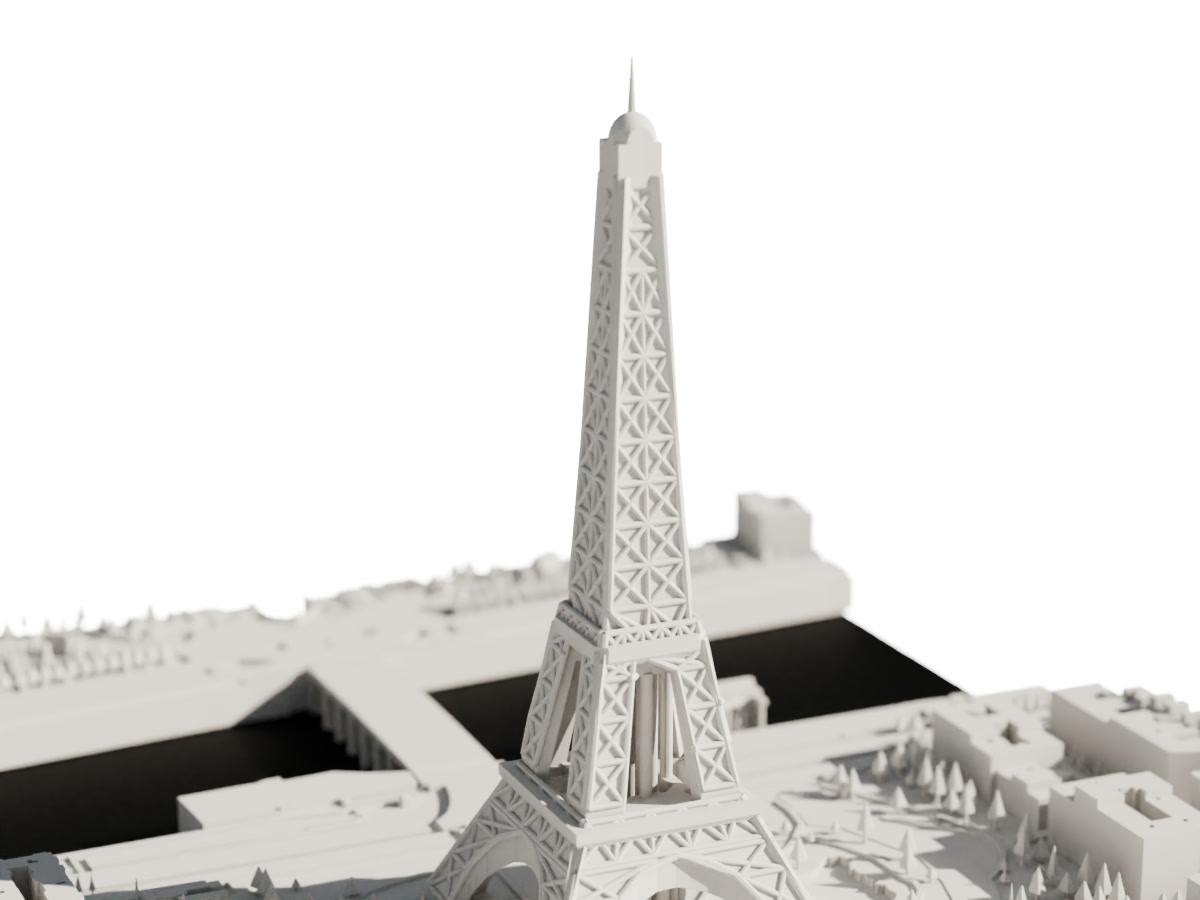
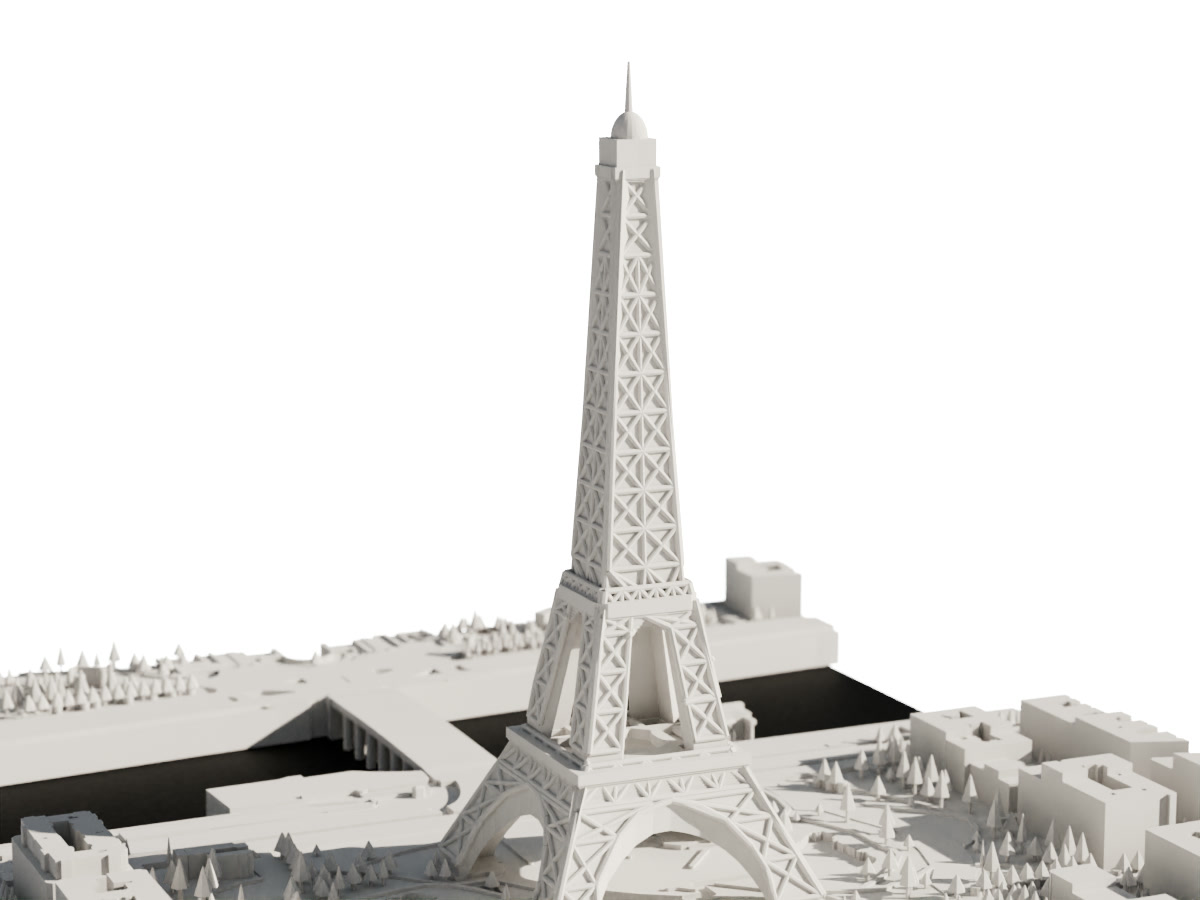
docs(audit,qa,readme): record hero landmark strategy audit, tighten QA checklist, and refresh Paris renders

Changed region(s): [[0.0, 0.0933, 1.0, 1.0]]

diff --git a/docs/hero-landmark-strategy-audit.md b/docs/hero-landmark-strategy-audit.md
@@ -1,0 +1,41 @@
+# Blind Architecture Audit: Hybrid Hero Landmark Strategy
+
+Date: `2026-11-25`.
+Three independent auditors (`rev-argon`, `rev-carbon`, `rev-neon`) evaluated three geometry strategies for `249 PLN` A4 through `50x70 cm` SKUs.
+
+## 1. Three-Model Scoreboard (`3:0` Unanimous Winner: Option C)
+
+| Strategy Option | `rev-argon` (`/40`) | `rev-carbon` (`/40`) | `rev-neon` (`/40`) | Verdict |
+| :--- | :---: | :---: | :---: | :--- |
+| **Option A**: Pure procedural OSM (`zero city hacks`) | `25.5` | `25.5` | `28.0` | **Rejected** |
+| **Option B**: Fully hand-sculpted city SKUs | `17.5` | `16.0` | `18.0` | **Rejected** |
+| **Option C**: Hybrid procedural fabric + geo-anchored hero library | **`38.6`** | **`36.5`** | **`36.0`** | **Winner (`3:0`)** |
+
+## 2. Real-SKU Visual Triggers Inspected
+
+Procedural OSM builds roughly `98%` of urban streets, blocks, bridges, and black-water cutouts cleanly.
+Close-up `10K` MSLA macro inspections exposed clear OSM LoD2 limits on flagship monuments:
+
+- **Paris Tour Eiffel**: Raw OSM LoD2 tags caused a bulbous summit dome cap and arch slab overhangs with vertical pipes.
+- **Warsaw `PKiN`**: Crowd-tagged parts lose crisp spire proportions and stepped Stalinist tier fidelity.
+- **Warsaw `Zlote Tarasy`**: OSM turns the undulating glass wave canopy into simplified egg-shaped bulbs.
+- **Warsaw `Most Poniatowskiego`**: OSM omits the iconic ornamental bridgehead viaduct turrets.
+- **Warsaw `PGE Narodowy`**: Raw OSM cannot capture the tensioned suspended stadium roof accurately.
+
+## 3. Why Option C Scales to 200 Cities and All Formats
+
+- **Luxury unboxing trust (`249 PLN`+)**: Buyers inspect the `1-2` focal monuments up close in open glassless frames.
+- **Zero-rework cross-format reuse**: One metric-anchored landmark re-crops and re-scales across `12x17`, Triptych, Square, and `50x70 cm`.
+- **High engineering leverage**: Roughly `25-150` reusable monument assets cover a `200`-city curated catalog while core solvers stay `100%` generic.
+- **Strict technical contract**:
+  - Anchor every landmark by real-world `(lat, lon, heading_deg, metric scale)` with explicit `replaceOsmIds` footprint suppression.
+  - Require a watertight `2-manifold` solid ground skirt and enforce `SLA_PRINT_LAWS` strut minimums per scale.
+  - Validate every merged tile with `calibration/validate_msla_stl.py` (`VAL-01..08`) after Manifold CSG union.
+
+## 4. Recommended Rule Change (Pending User Sign-Off)
+
+Do not alter `AGENTS.md` Core Rules until the user approves Option C.
+If approved, replace the current `zero city hacks` clause with these two rules:
+
+- Keep `SLA_PRINT_LAWS`, `roadHeightMm`, and pure ASCII in `src/` and `tests/`; keep core procedural builders `100%` city-agnostic.
+- Place bespoke hero monuments only in a geo-anchored landmark library with `replaceOsmIds` suppression, reference-photo QA, and `VAL-01..08` proof.

diff --git a/docs/city-model-and-packshot-qa-checklist.md b/docs/city-model-and-packshot-qa-checklist.md
@@ -22,8 +22,11 @@ Read and execute all four gates before you approve any city STL, tile, or packsh
 
 - Never approve a city STL from validator metrics or browser preview alone.
 - Render and inspect the exported `.stl` files from four close-up angles on every critical zone:
-  - **Hero and unusual landmarks**: Inspect cantilevers, skybridges, curved shells, domes, wheels, lattice towers, and thin supertalls.
+  - **Hero monument likeness**: Compare each flagship monument against real reference photos before you ship a SKU.
+  - **Eye-level arch and cavity clearance**: Inspect through-arch and under-bridge openings at eye level. Reject overhang support pipes blocking open spans.
+  - **Summit-crown macro**: Verify `roof:shape=dome` caps stay inscribed inside parapets with crisp balcony cornices.
   - **Bridges and overpasses**: Verify `0.00 mm` bank abutment seals on both shores, aligned arch piers, and zero floating stubs.
+  - **Outer perimeter sliver check**: Inspect all four `120x170` or `170x120` borders. Reject razor-sliced perimeter walls or orphaned sidewalk annexes.
   - **Waterfronts and streets**: Verify zero floating vessels in `waterCutout`, zero streetlamp mast spikes, and zero collapsed walls.
 - Fix every geometry failure systemically in `src/` with zero city hacks.
 - Rebuild `python3 build_app.py`, pass `npm run test:headless` (`100%`), re-export STLs, and re-run Gates 2 and 3.

diff --git a/README.md b/README.md
@@ -18,7 +18,7 @@ Convert live OpenStreetMap vectors and AWS Terrarium DEM elevation into watertig
 
 | | |
 | :---: | :---: |
-| ![Paris True Scale](docs/screenshots/detail-01-paris.jpg)<br>**#1 Paris** (`76.75 mm` Z, `86.42 ml`) | ![Dubai Downtown](docs/screenshots/detail-02-dubai.jpg)<br>**#2 Dubai** (`99.93 mm` Z, `122.47 ml`) |
+| ![Paris True Scale](docs/screenshots/detail-01-paris.jpg)<br>**#1 Paris** (`76.75 mm` Z, `85.41 ml`) | ![Dubai Downtown](docs/screenshots/detail-02-dubai.jpg)<br>**#2 Dubai** (`99.93 mm` Z, `122.47 ml`) |
 | ![London Tower Bridge](docs/screenshots/detail-03-london.jpg)<br>**#3 London** (`39.53 mm` Z, `114.63 ml`) | ![Chicago Loop](docs/screenshots/detail-04-chicago.jpg)<br>**#4 Chicago** (`62.36 mm` Z, `157.70 ml`) |
 | ![Sydney Harbour](docs/screenshots/detail-05-sydney.jpg)<br>**#5 Sydney** (`40.63 mm` Z, `105.97 ml`) | ![Hong Kong Central](docs/screenshots/detail-06-hong-kong.jpg)<br>**#6 Hong Kong** (`54.56 mm` Z, `152.10 ml`) |
 | ![Venice Grand Canal](docs/screenshots/detail-07-venice.jpg)<br>**#7 Venice** (`14.30 mm` Z, `91.49 ml`) | ![Amsterdam Canals](docs/screenshots/detail-08-amsterdam.jpg)<br>**#8 Amsterdam** (`10.30 mm` Z, `103.12 ml`) |

diff --git a/AGENTS.md b/AGENTS.md
@@ -31,6 +31,7 @@ Read this map first. Open only the focused guide that matches your task.
 | [a4-vs-13x18-ads-audit.md](docs/a4-vs-13x18-ads-audit.md) | Blind 3-model CRO and paid-ads audit locking heavy A4 over `13 x 18 cm`. |
 | [a4-tile-grid-audit.md](docs/a4-tile-grid-audit.md) | Blind 3-model Mono 4 tile grid audit locking `1x3` (`120 x 56.67 mm`) over `1x2` and `2x2`. |
 | [single-a4-top10-catalog.md](docs/single-a4-top10-catalog.md) | Verified Top 10 Single A4 `1x3` city STL catalog, 4 Continents, and 3 Wildcard reliefs. |
+| [hero-landmark-strategy-audit.md](docs/hero-landmark-strategy-audit.md) | Blind 3-model audit backing Option C hybrid geo-anchored hero landmark library. |
 | [lichtbild-vs-map3d-analysis.md](docs/lichtbild-vs-map3d-analysis.md) | Architecture, data, or render comparison against the Lichtbild benchmark. |
 | [lichtbild-buildings-diagnosis.md](docs/lichtbild-buildings-diagnosis.md) | Tall spire geometry or OSM building-part extrusion debugging. |
 

diff --git a/docs/single-a4-top10-catalog.md b/docs/single-a4-top10-catalog.md
@@ -11,7 +11,7 @@ Assemble all three strips North to South inside the `21 x 29.7 cm` white beveled
 
 | Rank | City Slug (`exports/<slug>_a4_120x170_1x3/`) | Coordinates (`lat, lon`) | `span` / `rot` / `zScale` | `Zmax` (`mm`) | Total Resin (`ml`) | Total Tris | MSLA Gate |
 | :---: | :--- | :--- | :--- | ---: | ---: | ---: | :--- |
-| `#1` | `paris_true_scale` | `48.8586, 2.2942` | `780 m` / `-46` / `1.05` | `76.75` | `86.42` | `156,098` | `3/3 PASS` |
+| `#1` | `paris_true_scale` | `48.8586, 2.2942` | `780 m` / `-46` / `1.05` | `76.75` | `85.41` | `160,318` | `3/3 PASS` |
 | `#2` | `dubai_downtown` | `25.1979, 55.2756` | `1480 m` / `0` / `1.05` | `99.93` | `122.47` | `172,426` | `3/3 PASS` |
 | `#3` | `london_tower_bridge` | `51.5092, -0.0784` | `1880 m` / `-8` / `1.25` | `39.53` | `114.63` | `374,818` | `3/3 PASS` |
 | `#4` | `chicago_loop` | `41.8834, -87.6320` | `1780 m` / `0` / `1.15` | `62.36` | `157.70` | `330,918` | `3/3 PASS` |
